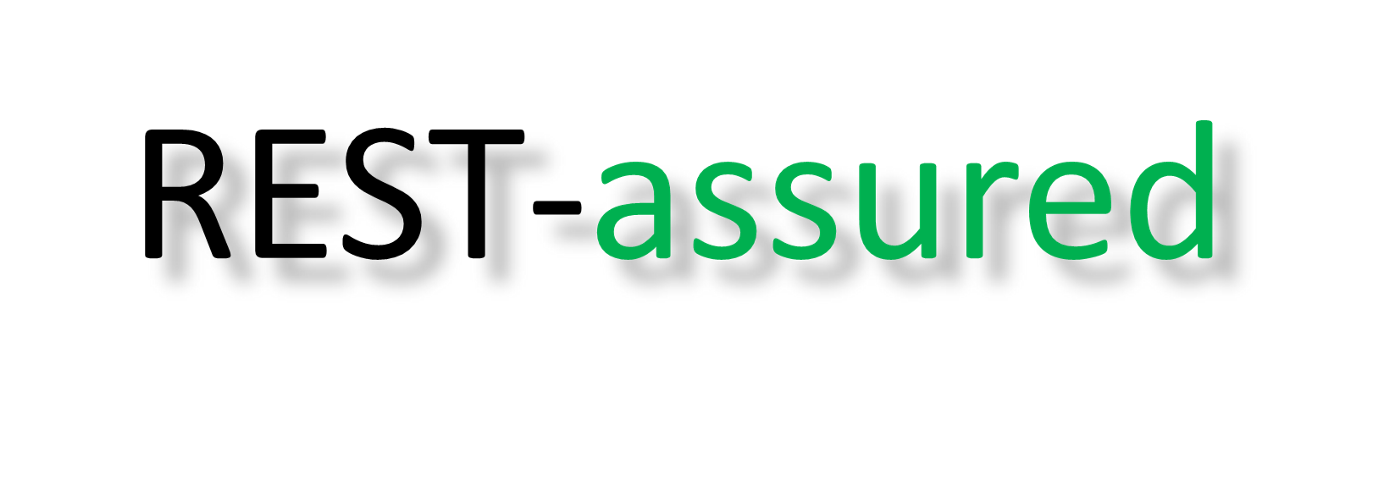
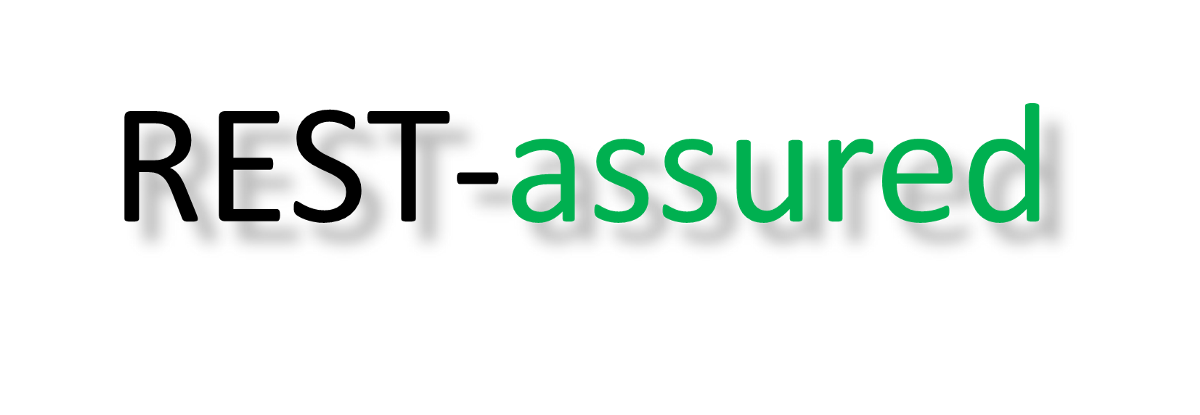
readme

Changed region(s): [[0.3083, 0.2602, 0.37, 0.2892], [0.185, 0.2602, 0.2467, 0.2892], [0.0925, 0.2602, 0.1233, 0.2892]]

diff --git a/README.md b/README.md
@@ -3,6 +3,6 @@ Testando API Rest com Rest-assured
 
 <p align="center">
         <a href="https://www.linkedin.com/in/allan-pereira-abrahao/">
-            <img align="center" width="1400" height="484"  src="/rest-assured.png" />
+            <img align="center" width="1280" height="720"  src="/restassured.png" />
         </a>
 </p>
